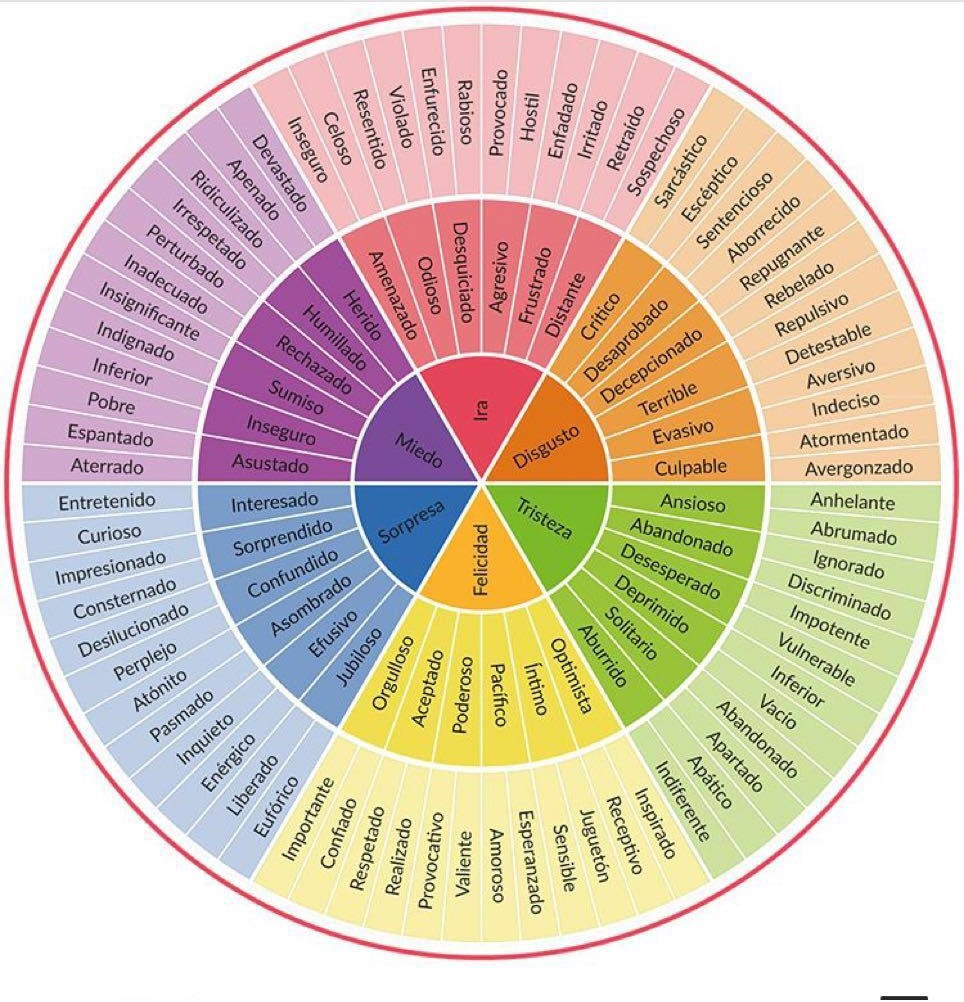
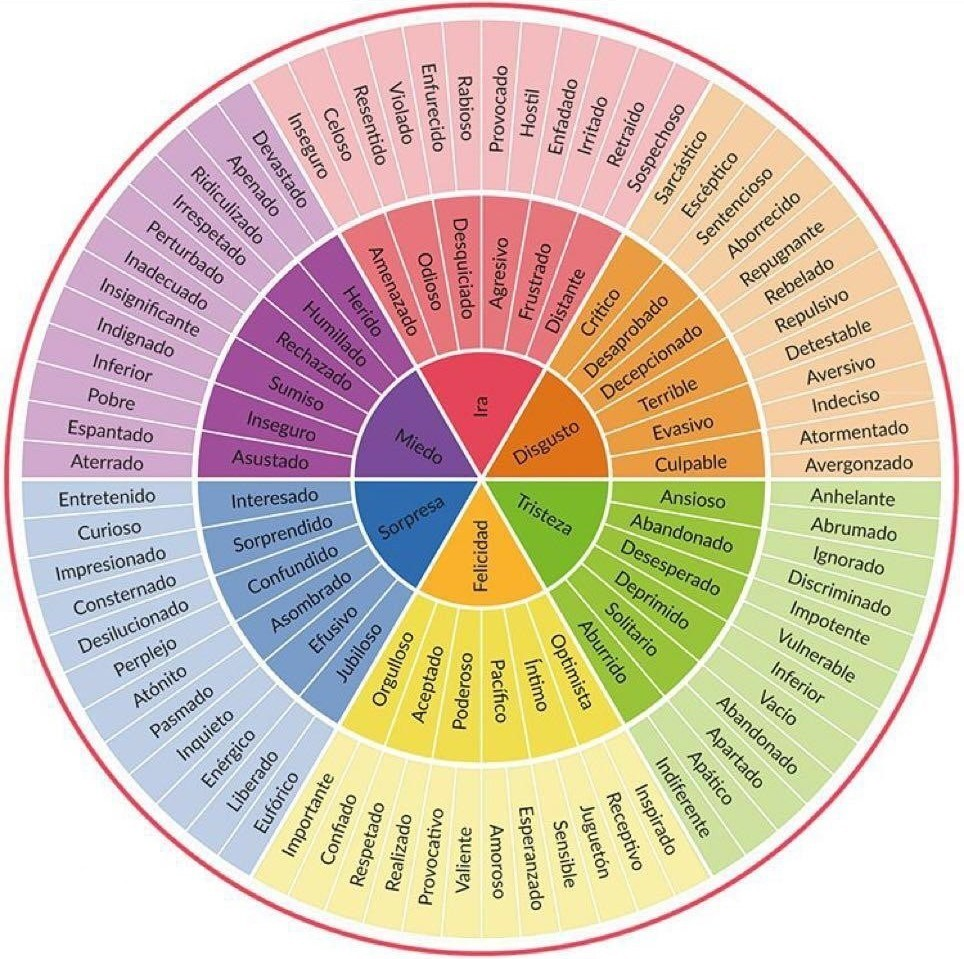
Upload add emotions wheel

diff --git a/frontend/src/context/ModalProvider.jsx b/frontend/src/context/ModalProvider.jsx
@@ -1,19 +1,24 @@
+// src/context/ModalProvider.jsx
 import { useState } from "react";
 import { ModalContext } from "./ModalContext";
 import DeleteMoodModal from "../components/modals/DeleteMoodModal";
 import MoodFormModal from "../components/modals/MoodFormModal";
-import ViewMoodModal from "../components/modals/ViewMoodModal";
+import EmotionsWheelModal from "../components/modals/EmotionsWheelModal";
 
 const ModalProvider = ({ children }) => {
-  const [modal, setModal] = useState(null);
+  const [modalStack, setModalStack] = useState([]);
 
-  const openModal = (type, data = null, onConfirm = null) =>
-    setModal({ type, data, onConfirm });
+  const openModal = (type, data = null, onConfirm = null) => {
+    setModalStack((prev) => [...prev, { type, data, onConfirm }]);
+  };
 
-  const closeModal = () => setModal(null);
+  const closeModal = () => {
+    setModalStack((prev) => prev.slice(0, -1));
+  };
 
   const renderModal = () => {
-    if (!modal) return null;
+    if (!modalStack.length) return null;
+    const modal = modalStack[modalStack.length - 1];
 
     switch (modal.type) {
       case "add":
@@ -26,6 +31,7 @@ const ModalProvider = ({ children }) => {
               if (modal.onConfirm) await modal.onConfirm(newMood);
               closeModal();
             }}
+            openSecondary={(secondaryType) => openModal(secondaryType, modal)}
           />
         );
       case "delete":
@@ -39,12 +45,9 @@ const ModalProvider = ({ children }) => {
             }}
           />
         );
-      case "view":
+      case "emotion-wheel":
         return (
-          <ViewMoodModal
-            mood={modal.data}
-            onClose={closeModal}
-          />
+          <EmotionsWheelModal onClose={closeModal} />
         );
       default:
         return null;
@@ -52,7 +55,7 @@ const ModalProvider = ({ children }) => {
   };
 
   return (
-    <ModalContext.Provider value={{ modal, openModal, closeModal }}>
+    <ModalContext.Provider value={{ openModal, closeModal }}>
       {children}
       {renderModal()}
     </ModalContext.Provider>

diff --git a/frontend/src/components/modals/MoodFormModal.jsx b/frontend/src/components/modals/MoodFormModal.jsx
@@ -1,6 +1,6 @@
 import { useState, useEffect } from "react";
 
-const MoodFormModal = ({ mood, onSaved, onClose }) => {
+const MoodFormModal = ({ mood, onSaved, onClose, openSecondary }) => {
   const [text, setText] = useState(mood?.text || "");
   const [category, setCategory] = useState(mood?.category || "Sin clasificar");
   const [emotion, setEmotion] = useState(mood?.emotion || "Sin clasificar");
@@ -76,6 +76,17 @@ const MoodFormModal = ({ mood, onSaved, onClose }) => {
                 <option>Disgusto🫤</option>
                 <option>Sorpresa😲</option>
               </select>
+
+              <p className="text-sm text-center text-gray-600">
+                ¿No sabes cuál es tu emoción?{" "}
+                <button
+                  type="button"
+                  className="link text-primary font-bold!"
+                  onClick={() => openSecondary("emotion-wheel")}
+                >
+                  Identifícala!
+                </button>
+              </p>
 
               <div className="flex justify-end gap-2 mt-4">
                 <button type="button" onClick={onClose} className="btn btn-outline">

diff --git a/frontend/src/components/modals/EmotionsWheelModal.jsx b/frontend/src/components/modals/EmotionsWheelModal.jsx
@@ -1,0 +1,19 @@
+const EmotionWheelModal = ({ onClose }) => {
+  return (
+    <dialog className="modal modal-open">
+      <div className="modal-box max-w-2xl">
+        <p className="font-bold text-lg mb-4! text-center">Rueda de las emociones</p>
+        <img
+          src="../../../public/ruedaEmociones.jpeg"
+          alt="Rueda de las emociones"
+          className="w-full rounded-lg shadow-lg"
+        />
+        <div className="modal-action mt-4">
+          <button onClick={onClose} className="btn btn-outline w-full">Volver al formulario</button>
+        </div>
+      </div>
+    </dialog>
+  );
+};
+
+export default EmotionWheelModal;
